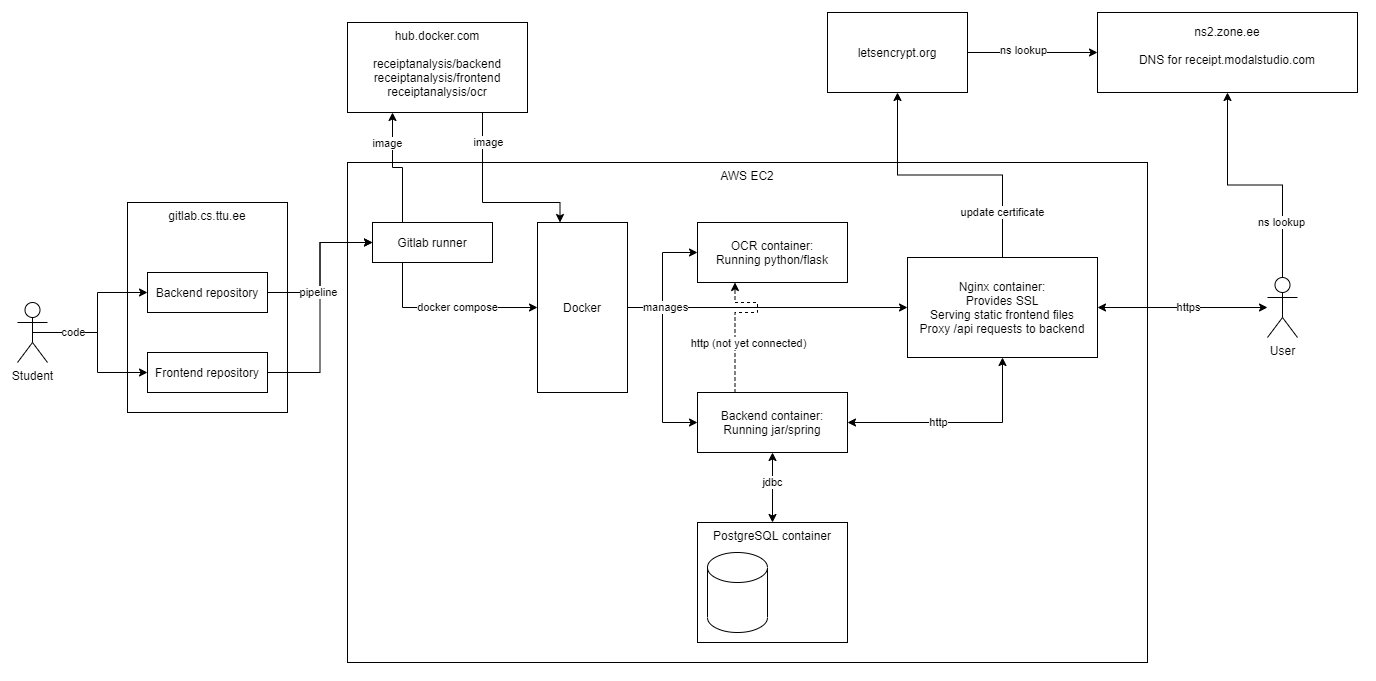
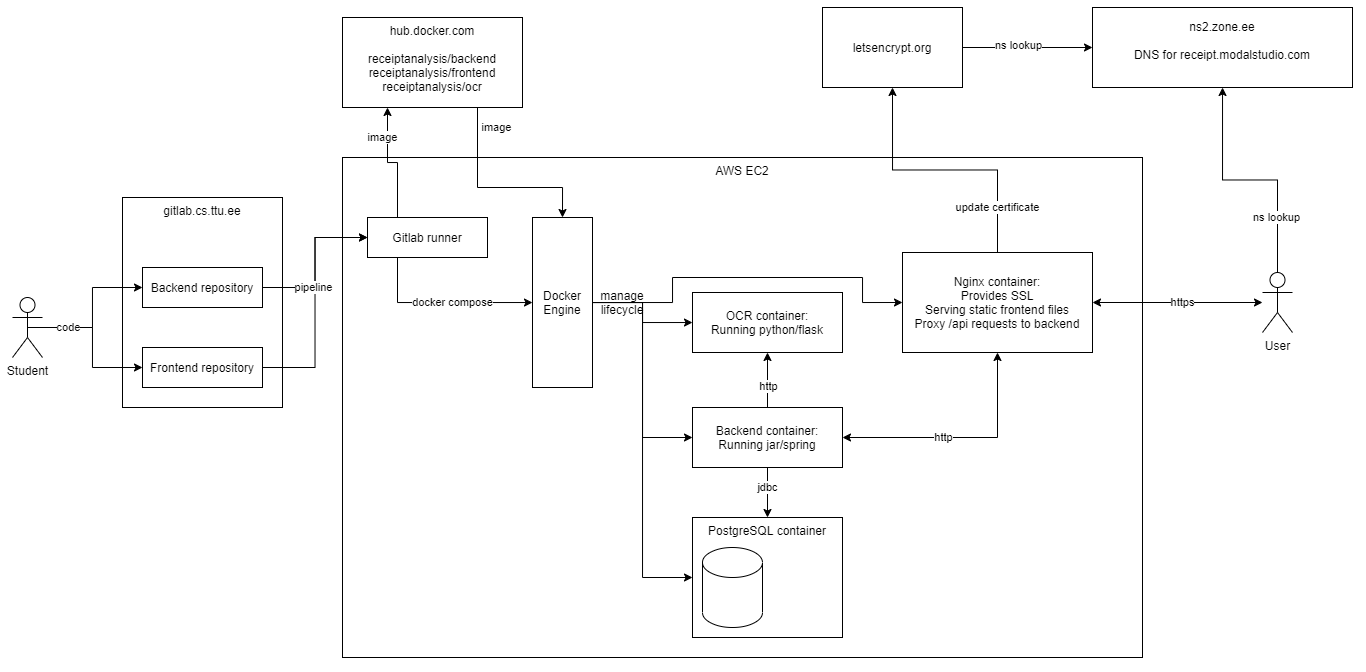
#46 Update documentation to meet part3 requirements

diff --git a/content/page/business-analysis.md b/content/page/business-analysis.md
@@ -1,115 +1,34 @@
-# Business analysis overview
+# Business analysis
 
-A receipt analysis service which will provide an overview and help with the classification of the purchased entries.
+## Primary objectives
 
-# User stories
+- To provide an easy-to-use service for private customers to capture their shopping receipts and analyse their purchasing habits
+- To provide API integration methods for 3rd party software for historical and live analysis to our corporate customers
 
-🔥 Must have
+## Scope
 
-🎁 Nice to have
+Initial scope during the iti0203-2020 team project
 
-⚗ Negotiable
+- Part 1: Creating a webapp and backend service to facilitate proof of concept functionality 
+- Part 2: Step up a deployment pipeline and live environment
+- Part 3: Add auth layer and basic OCR functionality for receipt photos
 
-## Unauthorized visitor
+Further scope
 
-- [X] 🔥**AS A** visitor
-  **I WANT** to see some statistics and examples
-  **SO THAT** I would have confidence in using the service.
-  [☁#24](https://gitlab.cs.ttu.ee/jakutt/team-02-spacevolcanoes-backend/-/issues/24)
-  [🖥#11](https://gitlab.cs.ttu.ee/jakutt/team-02-spacevolcanoes-frontend/-/issues/11)
+- Store images externally on AWS S3
+- Add separate paid account tiers and restrictive usage limitations to manage our costs
+- Learn and implement text categorization to match item names, prices and metadata on the receipt to correct fields
+- Expose OCR functionality as a separate feature for corporate customers
 
-- [ ] 🎁**AS A** visitor
-  **I WANT** to see terms of service before signing up
-  **SO THAT** I would know what I am getting myself into.
+## Plan
 
-- [ ] 🔥**AS A** visitor
-  **I WANT** the website look attractive and easily usable
-  **SO THAT** I would trust the service and be more likely to start using it.
-  [🖥#9](https://gitlab.cs.ttu.ee/jakutt/team-02-spacevolcanoes-frontend/-/issues/9)
+- Review our resources (time and people) after the initial project phase and come up with a specific timeline for our roadmap
+- Finish incomplete user stories currently defined before creating new to cover the future scope
+- Find a dedicated project manager / business type person to plan out the legal/financial side
+- Find more developers if required
 
-- [ ] 🔥**AS A** visitor
-  **I WANT** to create an account with the service
-  **SO THAT** my data would remain connected to me.
-  [☁#9](https://gitlab.cs.ttu.ee/jakutt/team-02-spacevolcanoes-backend/-/issues/9)
-  [🖥#8](https://gitlab.cs.ttu.ee/jakutt/team-02-spacevolcanoes-frontend/-/issues/8)
+## Monetization
 
-## Registered customer
-
-- [X] 🔥**AS A** customer
-  **I WANT** to upload an image of my receipt
-  **SO THAT** I could get the entries on it back in text form.
-  [🖥#1](https://gitlab.cs.ttu.ee/jakutt/team-02-spacevolcanoes-frontend/-/issues/1)
-
-- [ ] 🎁**AS A** customer
-  **I WANT** to crop my image in the upload form
-  **SO THAT** the most relevant part (the receipt) and less of the background gets stored on the service.
-  [🖥#2](https://gitlab.cs.ttu.ee/jakutt/team-02-spacevolcanoes-frontend/-/issues/2)
-
-- [X] 🔥**AS A** customer
-  **I WANT** to provide fixes and feedback for the text entries
-  **SO THAT** my data would be identified and classified correctly.
-  [🖥#3](https://gitlab.cs.ttu.ee/jakutt/team-02-spacevolcanoes-frontend/-/issues/3)
-  [☁#5](https://gitlab.cs.ttu.ee/jakutt/team-02-spacevolcanoes-backend/-/issues/5)
-
-- [X] 🔥**AS A** customer
-  **I WANT** my uploaded image and entry data to be saved
-  **SO THAT** I wouldn't need to upload them multiple times.
-  [☁#2](https://gitlab.cs.ttu.ee/jakutt/team-02-spacevolcanoes-backend/-/issues/2)
-  [☁#3](https://gitlab.cs.ttu.ee/jakutt/team-02-spacevolcanoes-backend/-/issues/3)
-
-- [X] 🔥**AS A** customer
-  **I WANT** to see an overview list of my previously saved receipts together with a summary
-  **SO THAT** I would know which receipts I've already uploaded to the service.
-  [🖥#4](https://gitlab.cs.ttu.ee/jakutt/team-02-spacevolcanoes-frontend/-/issues/4)
-  [☁#6](https://gitlab.cs.ttu.ee/jakutt/team-02-spacevolcanoes-backend/-/issues/6)
-
-- [ ] ⚗**AS A** customer
-  **I WANT** to sort and filter the receipts list by date/shop/sum
-  **SO THAT** I could get a better overview about my expenses.
-
-- [X] 🔥**AS A** customer
-  **I WANT** to be able to open up and see a detailed receipt page
-  **SO THAT** I could see which entries were covered by this receipt.
-  [🖥#5](https://gitlab.cs.ttu.ee/jakutt/team-02-spacevolcanoes-frontend/-/issues/5)
-  [☁#7](https://gitlab.cs.ttu.ee/jakutt/team-02-spacevolcanoes-backend/-/issues/7)
-
-- [ ] ⚗**AS A** customer
-  **I WANT** to be able to view a summary list of entries gathered from my receipts
-  **SO THAT** I could get an overview of my purchases.
-
-- [ ] 🎁**AS A** customer
-  **I WANT** to be able to sort and filter the individual entries
-  **SO THAT** I could get a better insight into my shopping behavior.
-
-- [ ] 🔥**AS A** customer
-  **I WANT** to be able to open up and see a detailed entry page
-  **SO THAT** I could see how many times, for which prices and where I have purchased this entry.
-  [☁#10](https://gitlab.cs.ttu.ee/jakutt/team-02-spacevolcanoes-backend/-/issues/10)
-  [🖥#7](https://gitlab.cs.ttu.ee/jakutt/team-02-spacevolcanoes-frontend/-/issues/7)
-
-- [ ] 🔥**AS A** customer
-  **I WANT** to be able to delete my receipts and entries tied to them
-  **SO THAT** I could avoid accidental duplicates and protect my privacy.
-  [☁#8](https://gitlab.cs.ttu.ee/jakutt/team-02-spacevolcanoes-backend/-/issues/8)
-  [🖥#6](https://gitlab.cs.ttu.ee/jakutt/team-02-spacevolcanoes-frontend/-/issues/6)
-
-- [ ] 🎁**AS A** customer
-  **I WANT** to be able to delete my account
-  **SO THAT** I could protect my privacy.
-
-- [ ] 🎁**AS A** customer
-  **I WANT** the service to provide the entries from my receipt image as text
-  **SO THAT** I wouldn't have to insert that manually.
-  [☁#8](https://gitlab.cs.ttu.ee/jakutt/team-02-spacevolcanoes-backend/-/issues/12)
-
-- [ ] 🎁**AS A** customer
-  **I WANT** the service to attempt to categorize the entries from my receipts
-  **SO THAT** I wouldn't have to insert that manually.
-
-- [ ] 🎁**AS A** customer
-  **I WANT** the service to provide the metadata (store/date/time/location) from my receipt image as text 
-  **SO THAT** I wouldn't have to insert that manually.
-
-- [ ] 🎁**AS A** customer
-  **I WANT** to be able to edit the metadata (email mostly) related to my account
-  **SO THAT** I wouldn't have to make a new account, if said metadata changes.
+- Paid customer tiers for features: uploaded image size, uploads per month, analysis time per month
+- Paid corporate tiers with pay-per-usage and support
+- Leasing our integrations to other service providers

diff --git a/content/page/features.md b/content/page/features.md
@@ -1,0 +1,184 @@
+# Features
+
+Our features described as user stories together with links to implementation tickets. Roles mentioned in the stories:
+
+- visitor, unauthorized page visitor (Guest)
+- customer, registered and logged-in customer (User)
+- administrator, logged-in user with all privileges (Admin)
+
+# Current scope (8)
+
+- [X] **AS A** visitor
+  **I WANT** to see some statistics and examples
+  **SO THAT** I would have confidence in using the service.
+
+  **Issues:**
+  [☁#24](https://gitlab.cs.ttu.ee/jakutt/team-02-spacevolcanoes-backend/-/issues/24)
+  [🖥#11](https://gitlab.cs.ttu.ee/jakutt/team-02-spacevolcanoes-frontend/-/issues/11)
+
+- [X] **AS A** customer
+  **I WANT** to crop my image in the upload form
+  **SO THAT** the most relevant part (the receipt) and less of the background gets stored on the service.
+
+  **Issues:**
+  [🖥#2](https://gitlab.cs.ttu.ee/jakutt/team-02-spacevolcanoes-frontend/-/issues/2)
+
+- [X] **AS A** customer
+  **I WANT** my uploaded image and entry data to be saved
+  **SO THAT** I wouldn't need to upload them multiple times.
+
+  **Issues:**
+  [🖥#1](https://gitlab.cs.ttu.ee/jakutt/team-02-spacevolcanoes-frontend/-/issues/1)
+  [☁#2](https://gitlab.cs.ttu.ee/jakutt/team-02-spacevolcanoes-backend/-/issues/2)
+  [☁#3](https://gitlab.cs.ttu.ee/jakutt/team-02-spacevolcanoes-backend/-/issues/3)
+
+- [X] **AS A** customer
+  **I WANT** to provide fixes and feedback for the text entries
+  **SO THAT** my data would be identified and classified correctly.
+
+  **Issues:**
+  [🖥#3](https://gitlab.cs.ttu.ee/jakutt/team-02-spacevolcanoes-frontend/-/issues/3)
+  [☁#5](https://gitlab.cs.ttu.ee/jakutt/team-02-spacevolcanoes-backend/-/issues/5)
+
+- [X] **AS A** customer
+  **I WANT** to see an overview list of my previously saved receipts together with a summary
+  **SO THAT** I would know which receipts I've already uploaded to the service.
+
+  **Issues:**
+  [🖥#4](https://gitlab.cs.ttu.ee/jakutt/team-02-spacevolcanoes-frontend/-/issues/4)
+  [☁#6](https://gitlab.cs.ttu.ee/jakutt/team-02-spacevolcanoes-backend/-/issues/6)
+
+- [X] **AS A** customer
+  **I WANT** to be able to open up and see a detailed receipt page
+  **SO THAT** I could see which entries were covered by this receipt.
+
+  **Issues:**
+  [🖥#5](https://gitlab.cs.ttu.ee/jakutt/team-02-spacevolcanoes-frontend/-/issues/5)
+  [☁#7](https://gitlab.cs.ttu.ee/jakutt/team-02-spacevolcanoes-backend/-/issues/7)
+
+- [X] **AS A** customer
+  **I WANT** to be able to delete my receipts and entries tied to them
+  **SO THAT** I could avoid accidental duplicates and protect my privacy.
+
+  **Issues:**
+  [☁#8](https://gitlab.cs.ttu.ee/jakutt/team-02-spacevolcanoes-backend/-/issues/8)
+  [🖥#6](https://gitlab.cs.ttu.ee/jakutt/team-02-spacevolcanoes-frontend/-/issues/6)
+
+- [ ] **AS AN** administrator
+  **I WANT** to be able to see and delete images customers have uploaded
+  **SO THAT** I could police compliance to our terms of service.
+
+  **Issues:**
+  [☁#47](https://gitlab.cs.ttu.ee/jakutt/team-02-spacevolcanoes-backend/-/issues/47)
+  [🖥#19](https://gitlab.cs.ttu.ee/jakutt/team-02-spacevolcanoes-frontend/-/issues/19)
+
+# Future plans (12)
+
+- [ ] **AS A** visitor
+  **I WANT** to see terms of service before signing up
+  **SO THAT** I would know what I am getting myself into.
+
+  **Estimated:**
+  Time: 2h,
+  Complexity: 1
+
+- [ ] **AS A** visitor
+  **I WANT** the website look attractive and easily usable
+  **SO THAT** I would trust the service and be more likely to start using it.
+
+  **Issues:**
+  [🖥#9](https://gitlab.cs.ttu.ee/jakutt/team-02-spacevolcanoes-frontend/-/issues/9)
+
+  **Estimated:**
+  Time: 4h,
+  Complexity: 2
+
+- [ ] **AS A** customer
+  **I WANT** to sort and filter the receipts list by date/shop/sum
+  **SO THAT** I could get a better overview about my expenses.
+
+  **Estimated:**
+  Time: 5h,
+  Complexity: 3
+
+- [ ] **AS A** customer
+  **I WANT** to be able to view a summary list of entries gathered from my receipts
+  **SO THAT** I could get an overview of my purchases.
+
+  **Estimated:**
+  Time: 6h,
+  Complexity: 3
+
+- [ ] **AS A** customer
+  **I WANT** to be able to sort and filter the individual entries
+  **SO THAT** I could get a better insight into my shopping behavior.
+
+  **Estimated:**
+  Time: 8h,
+  Complexity: 5
+
+- [ ] **AS A** customer
+  **I WANT** to be able to open up and see a detailed entry page
+  **SO THAT** I could see how many times, for which prices and where I have purchased this entry.
+
+  **Issues:**
+  [☁#10](https://gitlab.cs.ttu.ee/jakutt/team-02-spacevolcanoes-backend/-/issues/10)
+  [🖥#7](https://gitlab.cs.ttu.ee/jakutt/team-02-spacevolcanoes-frontend/-/issues/7)
+
+  **Estimated:**
+  Time: 7h,
+  Complexity: 5
+
+- [ ] 🎁**AS A** customer
+  **I WANT** the service to provide the entries from my receipt image as text
+  **SO THAT** I wouldn't have to insert that manually.
+
+  **Issues:**
+  [☁#12](https://gitlab.cs.ttu.ee/jakutt/team-02-spacevolcanoes-backend/-/issues/12)
+  [☁#13](https://gitlab.cs.ttu.ee/jakutt/team-02-spacevolcanoes-backend/-/issues/13)
+
+  **Estimated:**
+  Time: 11h,
+  Complexity: 13
+
+- [ ] **AS A** customer
+  **I WANT** to be able to delete my account
+  **SO THAT** I could protect my privacy.
+
+  **Estimated:**
+  Time: 2h,
+  Complexity: 2
+
+- [ ] **AS A** customer
+  **I WANT** the service to attempt to categorize the entries from my receipts
+  **SO THAT** I wouldn't have to insert categories manually.
+
+  **Estimated:**
+  Time: 16h,
+  Complexity: 20
+
+- [ ] **AS A** customer
+  **I WANT** the service to provide the metadata (store/date/time/location) from my receipt image as text
+  **SO THAT** I wouldn't have to insert that manually.
+
+  **Estimated:**
+  Time: 16h,
+  Complexity: 20
+
+- [ ] **AS A** customer
+  **I WANT** to be able to edit the metadata (email mostly) related to my account
+  **SO THAT** I wouldn't have to make a new account, if said metadata changes.
+
+  **Estimated:**
+  Time: 4h,
+  Complexity: 3
+
+# Not for grading / auth related (1)
+
+- [X] **AS A** visitor
+  **I WANT** to create an account with the service
+  **SO THAT** my data would remain connected to me.
+
+  **Issues:**
+  [☁#9](https://gitlab.cs.ttu.ee/jakutt/team-02-spacevolcanoes-backend/-/issues/9)
+  [🖥#8](https://gitlab.cs.ttu.ee/jakutt/team-02-spacevolcanoes-frontend/-/issues/8)

diff --git a/content/page/technical.md b/content/page/technical.md
@@ -5,7 +5,7 @@ gain insight about their purchase receipts.
 
 ## Architecture
 
-![Architecture Diagram](/archdrawing21.11.2020.png)
+![Architecture Diagram](/archdrawing.png)
 
 ## Components
 
@@ -34,7 +34,7 @@ serve our static frontend files. Container is running on
 [receiptanalysis/frontend](https://hub.docker.com/repository/docker/receiptanalysis/frontend) with `linuxserver/letsencrypt` 
 as the base image to provide us with certificate update and SSL connection.
 
-### OCR _*(deployed, not integrated)_
+### OCR
 
 Our OCR service is a small containerized python application served by [Flask](https://palletsprojects.com/p/flask/)
 framework internally on port `5000`. Its goal is to provide our backend service with text extraction features from
@@ -52,9 +52,9 @@ Static files are packaged in and served by Nginx container.
 
 Our backend service is providing a variety of endpoints for managing customer receipts and purchase entries connected
 to them. It is also responsible for data validation and processing before saving it to persistent storage with 
-[JPA](https://spring.io/projects/spring-data-jpa). Receipt images are stored on AWS S3 _*(not yet implemented)_.
-Service is built using [Spring Boot](https://spring.io/projects/spring-boot) framework and running on Java 11,
-published internally on port `8080`. Container is running on image 
+[JPA](https://spring.io/projects/spring-data-jpa). Service is built using
+[Spring Boot](https://spring.io/projects/spring-boot) framework and running on Java 11, published internally on 
+port `8080`. Container is running on image 
 [receiptanalysis/backend](https://hub.docker.com/repository/docker/receiptanalysis/backend) with `openjdk:11-jre-slim`
 as the base image.
 

diff --git a/content/_index.md b/content/_index.md
@@ -7,21 +7,22 @@ Visit our website at [receipt.modalstudio.com](https://receipt.modalstudio.com/)
 
 See service [status](https://stats.uptimerobot.com/qDK0gIO086).
 
-**In part 1 we will accomplish the following:**
-- [x] Have a basic backend REST API that allows us to upload images 
-- [x] Backend that stores receipt information to database
-- [x] Have a Vue frontend that connects to our backend
-- [x] Have a detailed receipt page that displays the enries covered by a receipt
+## Development story
 
-**In part 2 we will accomplish the following:**
+**Part 3:**
+- [X] Users can register and login so that their data remains more private and connected to themselves
+- [X] A working website online that is able to produce receipt data from (some) images
+
+**Part 2:**
 - [x] AWS server setup where our backend docker container runs and frontend is delivered
 - [x] Automatic deploy to our server
 - [x] Automatically run tests in our pipeline
 
-**By the end of part 3 we will have:**
-- [ ] A working website online that is able to produce receipt data from (some) images
-- [ ] User account login page so that the data will remain connected with the customer
-- [ ] Provide some statistics/insight for our users about their shopping behavior
+**Part 1:**
+- [x] Have a basic backend REST API that allows us to upload images 
+- [x] Backend that stores receipt information to database
+- [x] Have a Vue frontend that connects to our backend
+- [x] Have a detailed receipt page that displays the enries covered by a receipt
 
 ## The Team
 - **Team Lead and Project Manager**:  Jaak Kütt  @jakutt
